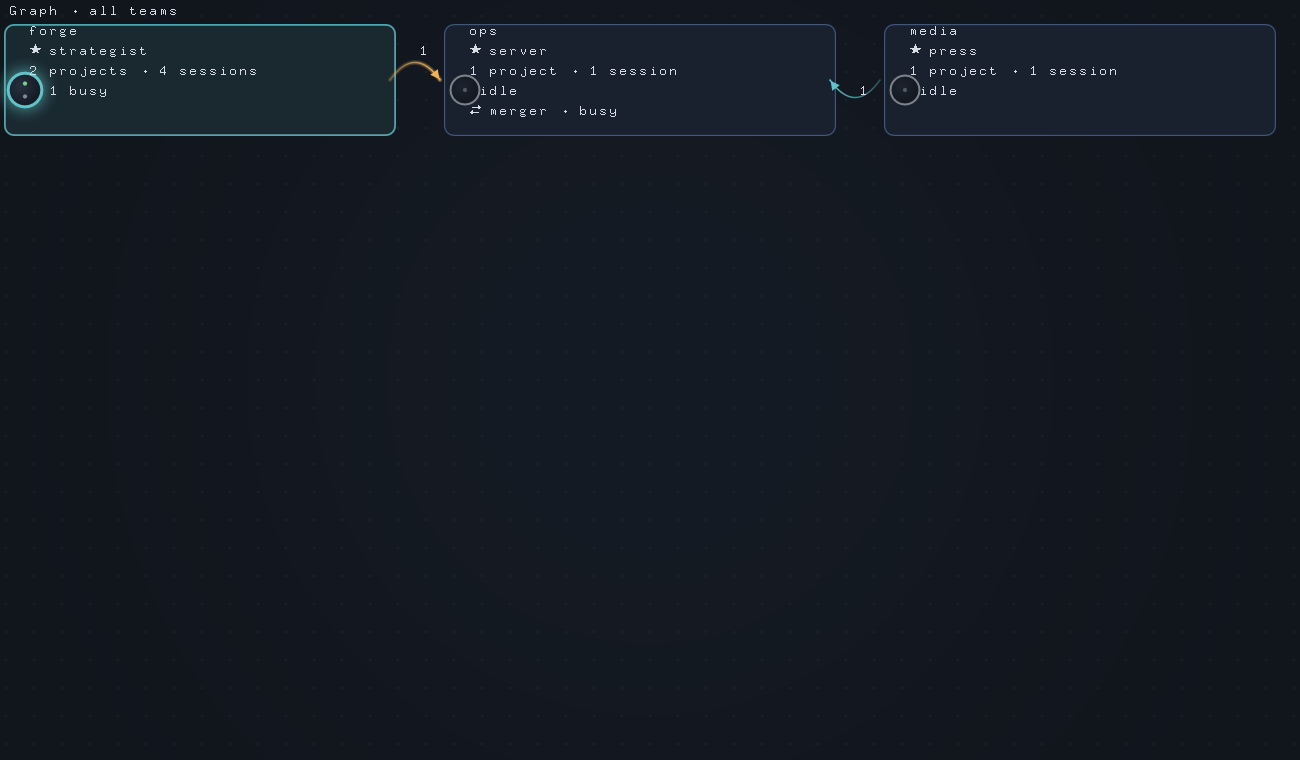
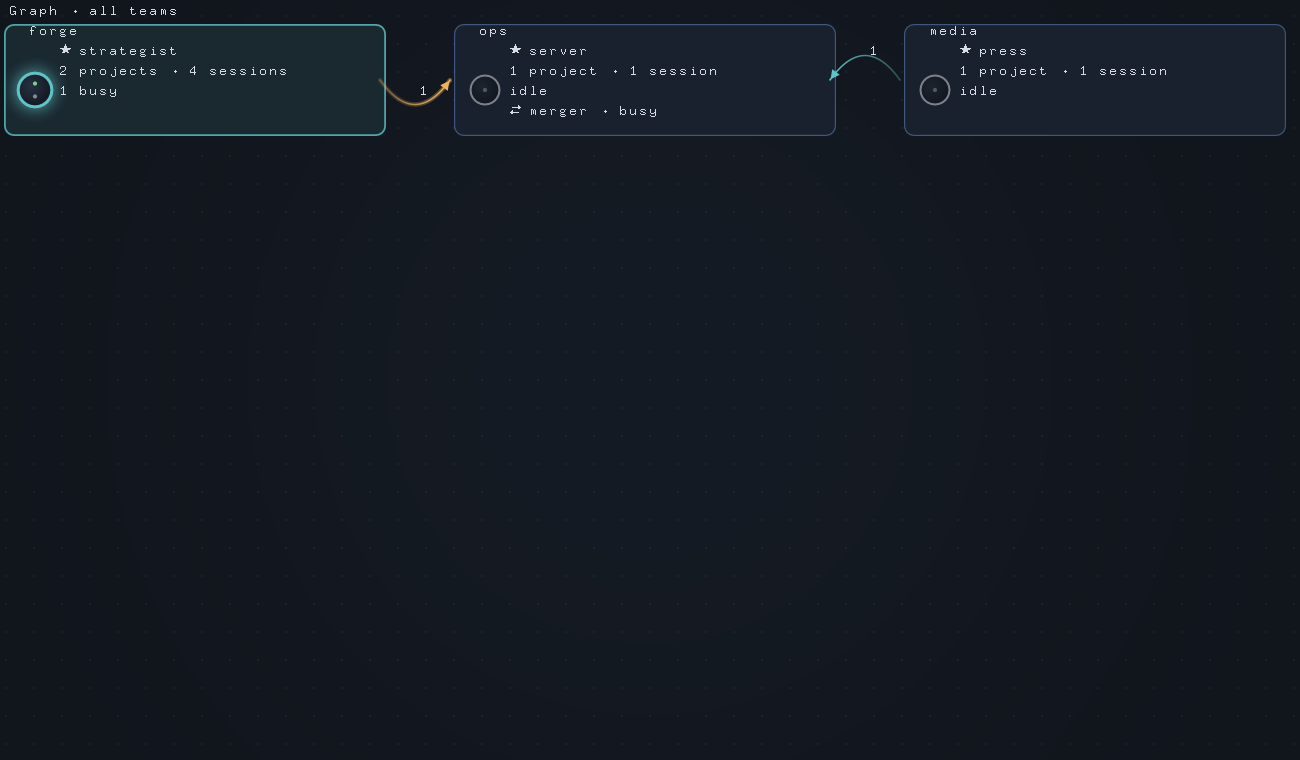
Polish Graph team pixel layout: node columns, label gaps, centred focus, wider links
Agent-Net-Worker: s_fc8711b6ce00e248
Agent-Net-Model: opencode-go/deepseek-v4.1-flash
Agent-Net-Harness: opencode
Agent-Net-Difficulty: normal
Agent-Net-Caller: s_e01474bf7cf16e1e

diff --git a/internal/tui/graph_team_scene.go b/internal/tui/graph_team_scene.go
@@ -586,6 +586,35 @@ func teamAbs(v int) int {
 	return v
 }
 
+// shiftTeamScene moves the drawn scene down by dy cells, keeping the footer
+// and title in their own rows.
+func shiftTeamScene(scene *graphview.Scene, dy int, size graphview.Size) {
+	if dy == 0 {
+		return
+	}
+	for i := range scene.Frames {
+		scene.Frames[i].Y += dy
+	}
+	for i := range scene.Groups {
+		scene.Groups[i].Y += dy
+	}
+	for i := range scene.Texts {
+		scene.Texts[i].Y += dy
+	}
+	fy := float64(dy) / float64(size.Height)
+	for i := range scene.Nodes {
+		scene.Nodes[i].Position.Y += fy
+	}
+	for i := range scene.Edges {
+		e := &scene.Edges[i]
+		e.From.Y += fy
+		e.To.Y += fy
+		for j := range e.Path {
+			e.Path[j].Y += fy
+		}
+	}
+}
+
 func clampInt(v, lo, hi int) int {
 	if v < lo {
 		return lo
@@ -640,14 +669,13 @@ func (m Model) teamGraphSceneContent(base graphview.Scene, size graphview.Size) 
 	// small draws a neighbour team box and returns the cell of its lead node.
 	// nodeRight puts the lead against the right border, so an edge to a frame
 	// on its right leaves without crossing the box text.
-	small := func(g teamGraphData, x, y, w, h int, strong, nodeRight bool) (int, int) {
+	small := func(g teamGraphData, x, y, w, h int, strong bool) (int, int) {
 		frame(x, y, w, h, g, strong)
-		nx, ny := x+2, y+3
+		// The lead has its own column; the text starts one cell right of the
+		// ring so the ring never sits over a glyph.
+		nx, ny := x+3, y+3
 		if h <= 4 {
 			ny = y + 1
-		}
-		if nodeRight {
-			nx = x + w - 3
 		}
 		n := node(g.lead, nx, ny, strong)
 		n.Name, n.Label, n.Kind = g.key, g.label, "team"
@@ -660,35 +688,21 @@ func (m Model) teamGraphSceneContent(base graphview.Scene, size graphview.Size) 
 		if g.lead != "" {
 			lead = "★ " + m.graphName(g.lead)
 		}
-		textW := w - 4
-		if nodeRight {
-			textW = w - 7
-		}
-		leadX := x + 3
-		if h <= 4 {
-			leadX = x + 4
-			textW = w - 5
-			if nodeRight {
-				textW = w - 7
-			}
-		}
-		text(leadX, y+1, textW, lead, "label", g.key)
+		textX := x + 6
+		textW := max(1, w-7)
+		text(textX, y+1, textW, lead, "label", g.key)
 		if h >= 4 {
-			text(x+3, y+2, textW, teamCount(g.projects, "project", "projects")+" · "+teamCount(g.sessions, "session", "sessions"), "labelDim", g.key)
+			text(textX, y+2, textW, teamCount(g.projects, "project", "projects")+" · "+teamCount(g.sessions, "session", "sessions"), "labelDim", g.key)
 		}
 		if h >= 5 {
 			state := g.role
 			if g.busy > 0 && state != "needs you" {
 				state = fmt.Sprintf("%d busy", g.busy)
 			}
-			sx := x + 4
-			if strong {
-				sx = x + 5
-			}
-			text(sx, y+3, w-(sx-x)-1, state, g.role, g.key)
+			text(textX, y+3, textW, state, g.role, g.key)
 		}
 		if h > 5 && g.merger != "" {
-			text(x+3, y+4, textW, g.merger, "busy", g.key)
+			text(textX, y+4, textW, g.merger, "busy", g.key)
 		}
 		return nx, ny
 	}
@@ -704,6 +718,8 @@ func (m Model) teamGraphSceneContent(base graphview.Scene, size graphview.Size) 
 		gap := 3
 		if size.Width < 100 {
 			gap = 2
+		} else if len(ordered) <= 3 {
+			gap = 6 // leave room for a visible link and its count
 		} else if size.Width >= 126 {
 			gap = 4
 		}
@@ -737,7 +753,7 @@ func (m Model) teamGraphSceneContent(base graphview.Scene, size graphview.Size) 
 			if y+h > avail {
 				break
 			}
-			small(g, x, y, w, h, g.key == selectedTeam, false)
+			small(g, x, y, w, h, g.key == selectedTeam)
 			boxes[g.key] = scene.Frames[len(scene.Frames)-1]
 			visible++
 		}
@@ -955,10 +971,7 @@ func (m Model) teamGraphSceneContent(base graphview.Scene, size graphview.Size) 
 			}
 			return true
 		}
-		gap := 2
-		if n.Selected {
-			gap = 3
-		}
+		gap := 3
 		placed := false
 		for _, pos := range [][2]int{
 			{c[0] + gap, c[1]},
@@ -969,12 +982,22 @@ func (m Model) teamGraphSceneContent(base graphview.Scene, size graphview.Size) 
 			if placeLabel(pos[0], pos[1]) {
 				placed = true
 				if pos[1] == c[1] {
-					gapX := pos[0] - 1
-					if pos[0] < c[0] {
-						gapX = pos[0] + labelW
-					}
-					if !(n.Selected && (gapX == c[0]-1 || gapX == c[0]+1)) {
-						text(gapX, pos[1], 1, " ", "label", key)
+					if pos[0] > c[0] {
+						start := c[0] + 1
+						if n.Selected {
+							start = c[0] + 2
+						}
+						for gx := start; gx < pos[0]; gx++ {
+							text(gx, pos[1], 1, " ", "label", key)
+						}
+					} else {
+						end := c[0] - 1
+						if n.Selected {
+							end = c[0] - 2
+						}
+						for gx := pos[0] + labelW; gx <= end; gx++ {
+							text(gx, pos[1], 1, " ", "label", key)
+						}
 					}
 				}
 				if !place(key, detail, "labelDim", pos[0], pos[1]+1) {
@@ -1005,9 +1028,14 @@ func (m Model) teamGraphSceneContent(base graphview.Scene, size graphview.Size) 
 			if w < 12 || y+boxH > mainH {
 				continue
 			}
-			nx, ny := small(ng, x, y, w, boxH, false, i%2 == 0)
-			cells[ng.key] = [2]int{nx, ny}
-			positions[ng.key] = teamNodePoint(nx, ny, size)
+			small(ng, x, y, w, boxH, false)
+			// The edge leaves from the box edge that faces the main frame.
+			portX := x + w - 1
+			if i%2 == 1 {
+				portX = x
+			}
+			cells[ng.key] = [2]int{portX, y + boxH/2}
+			positions[ng.key] = teamCellPoint(portX, y+boxH/2, size)
 		}
 	}
 	if inside {
@@ -1069,6 +1097,15 @@ func (m Model) teamGraphSceneContent(base graphview.Scene, size graphview.Size) 
 		bend := math.Min(4, math.Max(1.5, chord*.25))
 		path := teamCurve(a[0], a[1], b[0], b[1], bend, size)
 		scene.Edges = append(scene.Edges, graphview.SceneEdge{FromName: e.From, ToName: e.To, From: path[0], To: path[len(path)-1], Path: path, Kind: e.Kind, Mode: e.Mode, Rule: e.Rule, Selected: e.From == selected || e.To == selected})
+	}
+	if !inside {
+		avail := size.Height
+		if footer {
+			avail--
+		}
+		if y := (avail - mainH) / 2; y > 0 {
+			shiftTeamScene(&scene, y, size)
+		}
 	}
 	if footer {
 		x := 1

diff --git a/internal/tui/graph_team_layout_test.go b/internal/tui/graph_team_layout_test.go
@@ -350,3 +350,74 @@ func mockTenTeamsModel(w, h int) Model {
 	m.graphState, _ = graphview.Update(m.graphState, graphview.SelectNode{Name: graphRefKey(ref("team", "forge"))})
 	return m
 }
+
+// Pixel polish: nodes own a left column, labels keep a clear cell from the
+// ring, side boxes keep their lead inside, focus is centred, and adjacent
+// boxes leave room for a link.
+func TestTeamPolishSpacing(t *testing.T) {
+	const w, h = 130, 38
+	overview := mockTeamsModel(w, h)
+	s := overview.graphScene(overview.graphState, graphview.Size{Width: w, Height: h})
+	for _, f := range s.Frames {
+		for _, tx := range s.Texts {
+			if tx.Hit == f.Hit && tx.Y == f.Y+1 && tx.X < f.X+6 {
+				t.Fatalf("team %s text starts at x=%d, want its own column at x>=%d", f.Hit, tx.X, f.X+6)
+			}
+		}
+		for _, n := range s.Nodes {
+			if n.Name != f.Hit {
+				continue
+			}
+			nx := int(math.Round(n.Position.X * float64(w)))
+			if nx > f.X+4 {
+				t.Fatalf("team %s node at x=%d is over the text column", f.Hit, nx)
+			}
+		}
+	}
+
+	// A three-team row at 120 leaves a wide gap for a link and its count.
+	narrow := mockTeamsModel(120, 34)
+	sn := narrow.graphScene(narrow.graphState, graphview.Size{Width: 120, Height: 34})
+	if len(sn.Frames) < 2 {
+		t.Fatal("no frames")
+	}
+	if gap := sn.Frames[1].X - (sn.Frames[0].X + sn.Frames[0].Width); gap < 5 {
+		t.Fatalf("gap between boxes = %d, want at least 5", gap)
+	}
+
+	// Focus centres the frame and keeps the side box lead inside the box.
+	focus := mockTeamsModel(w, h)
+	focus = keys(focus, "enter")
+	sf := focus.graphScene(focus.graphState, graphview.Size{Width: w, Height: h})
+	main := sf.Frames[0]
+	if main.Y == 0 || main.Y+main.Height >= h {
+		t.Fatalf("focus frame y=%d height=%d is not centred", main.Y, main.Height)
+	}
+	side := sf.Frames[1]
+	for _, n := range sf.Nodes {
+		if n.Name != side.Hit {
+			continue
+		}
+		nx := int(math.Round(n.Position.X * float64(w)))
+		ny := int(math.Round(n.Position.Y * float64(h)))
+		if nx < side.X+2 || nx > side.X+side.Width-4 || ny <= side.Y || ny >= side.Y+side.Height-1 {
+			t.Fatalf("side box lead at %d,%d is not inside %+v", nx, ny, side)
+		}
+	}
+
+	// The cell just before a node label is blank, even where an edge passes.
+	lines := (graphview.Braille{}).Render(sf, graphview.Size{Width: w, Height: h}).Lines
+	for _, n := range sf.Nodes {
+		nx := int(math.Round(n.Position.X * float64(w)))
+		ny := int(math.Round(n.Position.Y * float64(h)))
+		for _, tx := range sf.Texts {
+			if tx.Hit != n.Name || tx.Y != ny || tx.X <= nx {
+				continue
+			}
+			runes := []rune(lines[ny])
+			if tx.X-1 < len(runes) && runes[tx.X-1] != ' ' {
+				t.Fatalf("label %q touches the ring at %d,%d: %q", tx.Text, tx.X-1, ny, string(runes[tx.X-1]))
+			}
+		}
+	}
+}
